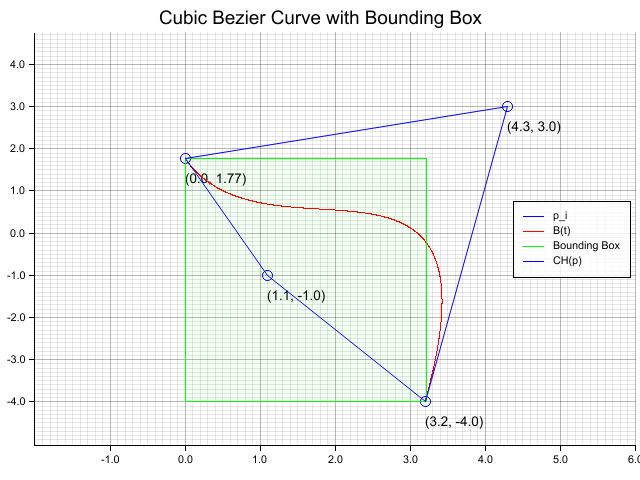
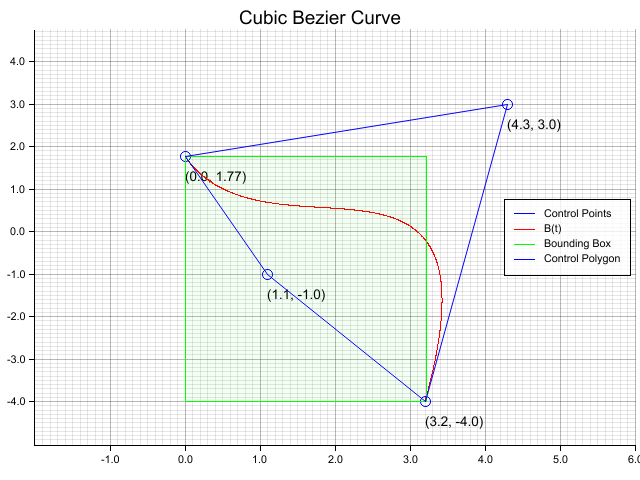
tweak example plot

Changed region(s): [[0.0, 0.0, 1.0, 0.8125], [0.0625, 0.8438, 0.6562, 0.875], [0.6875, 0.8438, 0.9688, 0.875]]

diff --git a/examples/plotters.rs b/examples/plotters.rs
@@ -43,7 +43,7 @@ fn main() -> Result<(), Box<dyn std::error::Error>> {
 
     // setup the chart
     let mut chart = ChartBuilder::on(&root)
-        .caption("Cubic Bezier Curve with Bounding Box", ("sans-serif", 21).into_font())
+        .caption("Cubic Bezier Curve", ("sans-serif", 21).into_font())
         .margin(5)
         .x_label_area_size(30)
         .y_label_area_size(30)
@@ -67,7 +67,7 @@ fn main() -> Result<(), Box<dyn std::error::Error>> {
                     )
             },
         ))?
-        .label("p_i")
+        .label("Control Points")
         .legend(|(x, y)| PathElement::new(vec![(x, y), (x + 20, y)], &BLUE));
 
     // draw the actual bezier curve
@@ -103,7 +103,7 @@ fn main() -> Result<(), Box<dyn std::error::Error>> {
             &BLUE.mix(0.0),
             ).border_style(&BLUE)
         )?
-        .label("CH(p)")
+        .label("Control Polygon")
         .legend(|(x, y)| PathElement::new(vec![(x, y), (x + 20, y)], &BLUE));
 
     chart

diff --git a/src/cubic_bezier.rs b/src/cubic_bezier.rs
@@ -693,10 +693,12 @@ mod tests
     fn eval_equivalence() {
         // all eval methods should be approximately equivalent for well defined test cases
         // and not equivalent where numerical stability becomes an issue for normal eval
-        let bezier = CubicBezier{ start:  Point2{x:0f64,  y:1.77f64},
-                                  ctrl1: Point2{x:2.9f64, y:0f64},
-                                  ctrl2: Point2{x:4.3f64, y:-3f64},
-                                  end:   Point2{x:3.2f64,  y:4f64}};
+        let bezier = CubicBezier::new( 
+            Point2::new(0f64,  1.77f64),
+            Point2::new(1.1f64, -1f64),
+            Point2::new(4.3f64,3f64),
+            Point2::new(3.2f64, -4f64),
+        );
 
         let max_err = 1e-14;
         let nsteps: usize =  1000;                                      
